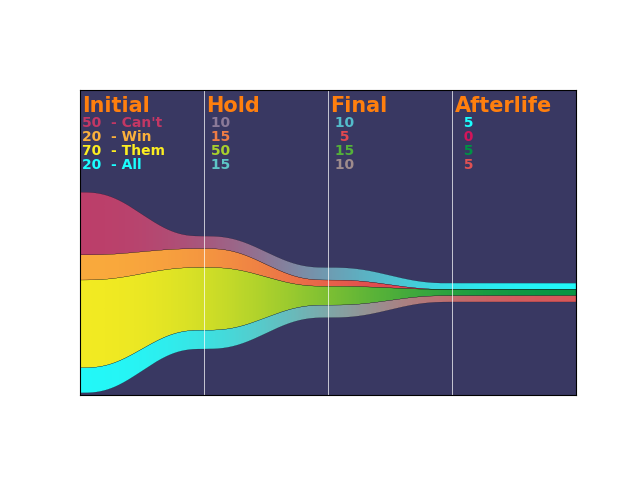
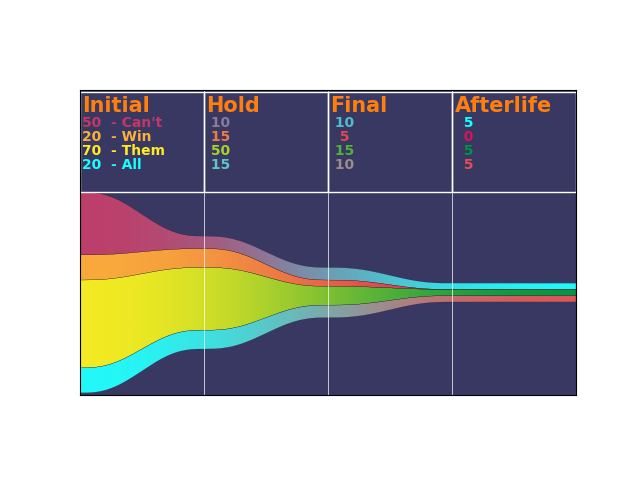
added experimental draw_from_anchors in notebook.

Changed region(s): [[0.125, 0.1875, 0.9062, 0.4062]]

diff --git a/FunnelGraph/src/text/text.py b/FunnelGraph/src/text/text.py
@@ -31,6 +31,8 @@ def label_stage(
     apply_colorQ: bool,
     cmap_list: list,
     cmap_arg: float,
+    text_stage_kwargs:dict=text_stage_kwargs,
+    text_nums_kwargs:dict=text_nums_kwargs
 ):
     """Function puts labels and numbers to the stage,
     cell example:
@@ -67,7 +69,7 @@ def label_stage(
     x0, y0 = stage * pic_global["stage_width"], pic_global["funnel_height"]
     x1, y1 = (stage + 1) * pic_global["stage_width"], pic_global["picture_height"]
     width, height = x1 - x0, y1 - y0
-    box = Rectangle((x0, y0), width, height, fc="none", ec="none")
+    box = Rectangle((x0, y0), width, height, fc="none", ec="w")
     ax.add_patch(box)
 
     # drawing top label, first place with <text> valiable
@@ -130,5 +132,32 @@ def label_stage(
 #     "27 %", xycoords=text, xy=(1, 0), va="top", ha='right', **numbs_dict)
 # text = ax.annotate(
 #     "11 %", xycoords=text, xy=(1, 0), va="top",ha='right', **numbs_dict)
+# plt.show()
+
+# # look no further:
+# import matplotlib.pyplot as plt
+# from matplotlib.transforms import Affine2D
+# from matplotlib.textpath import TextPath
+# from matplotlib.font_manager import FontProperties
+# from matplotlib.patches import PathPatch
+
+# fig, ax = plt.subplots(3, dpi=100)
+# ax[0].set(xlim=(-0.2, 3.2), ylim=(-0.2, 1.2))
+# ax[1].set(xlim=(0.3, 0.6), ylim=(0.95, 1.05))
+# ax[2].set(xlim=(2.3, 2.9), ylim=(0.95, 1.05))
+
+# from matplotlib.font_manager import FontProperties
+
+# fp = FontProperties(family='serif')
+# for i in [0,1,2]:
+#     path = TextPath((0, 0), "ABC", size=1, prop=fp)
+#     p = PathPatch(path, facecolor='orange', lw=1)
+#     transform = Affine2D().scale(100/73)
+#     p.set_transform(transform+ax[i].transData)
+#     ax[i].add_patch(p)
+#     ax[i].set_aspect('equal')
+
+#     ax[i].hlines(y=[0,1], xmin=-1, xmax=4)
+
 # plt.show()
 
